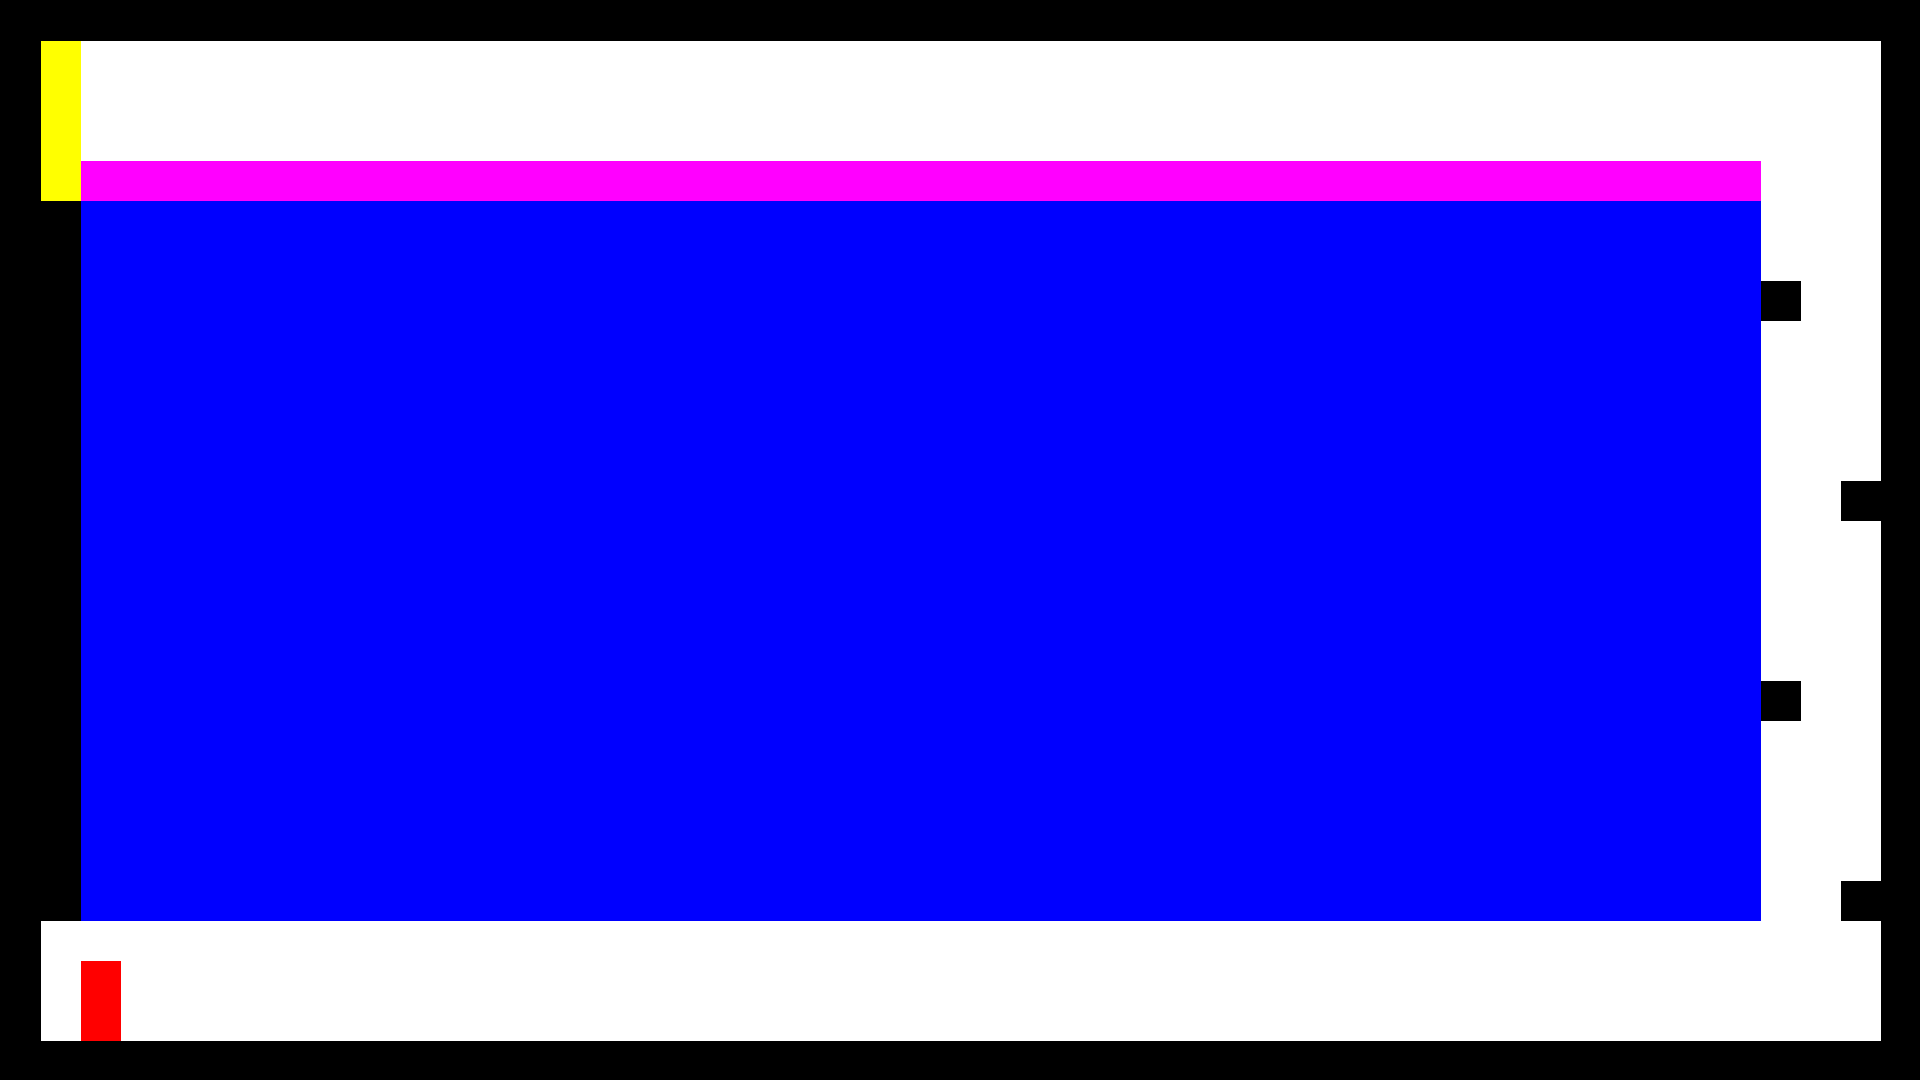
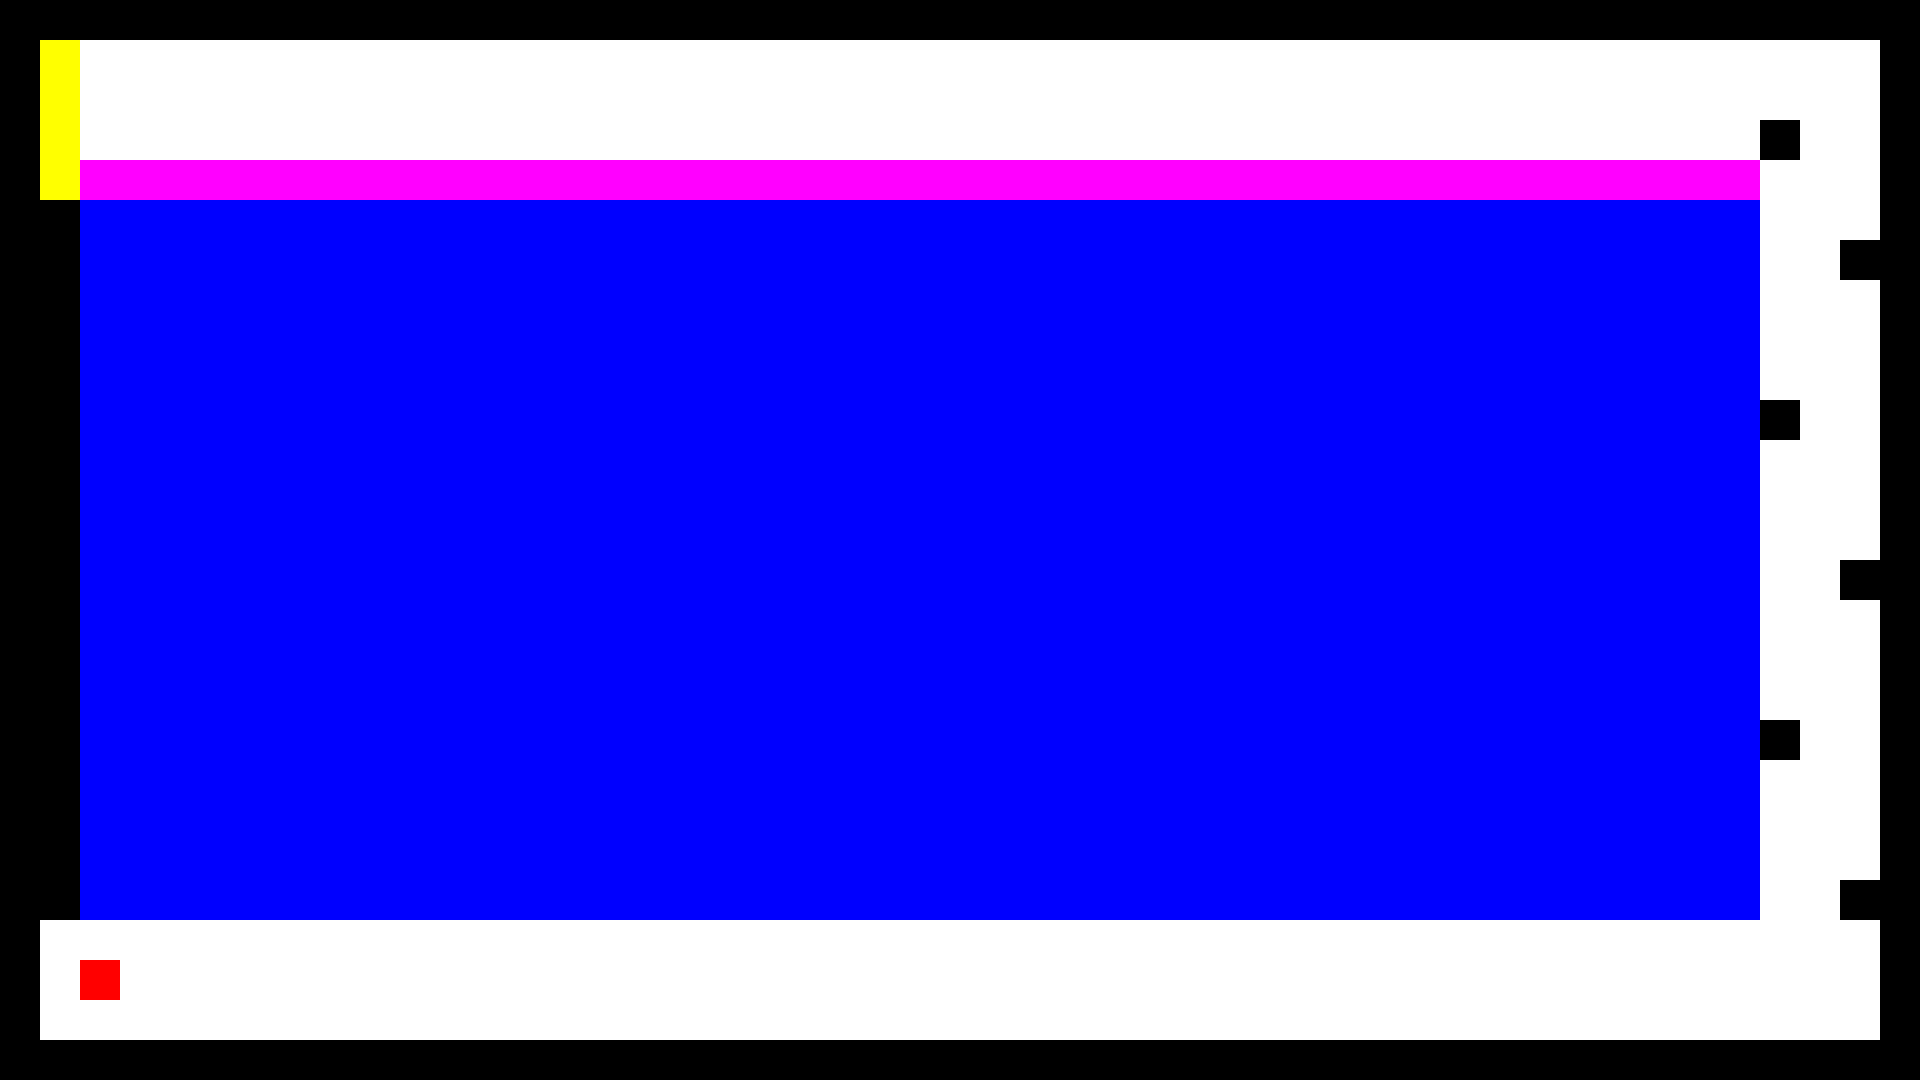
adjust 7

diff --git a/game_objects.py b/game_objects.py
@@ -196,6 +196,15 @@ class Player(GameObject):
                         self.velyd = i.vely
                         break
 
+        if self.velx > 0 and self.vely > 0:
+            self.state = self.jumpdr
+        elif self.velx <= 0 and self.vely > 0:
+            self.state = self.jumpdl
+        elif self.velx > 0 and self.vely < 0:
+            self.state = self.jumpur
+        elif self.velx <= 0 and self.vely < 0:
+            self.state = self.jumpul
+        
         ret = super(Player, self).tick(level, ins, objects)
         if ret == 1:
             return 1

diff --git a/main.py b/main.py
@@ -14,7 +14,7 @@ screen = pygame.display.set_mode((width, height))
 pygame.display.flip()
 
 
-levelnumber = 0
+levelnumber = 5
 objects = []
 keys = []
 bit_keys = []
